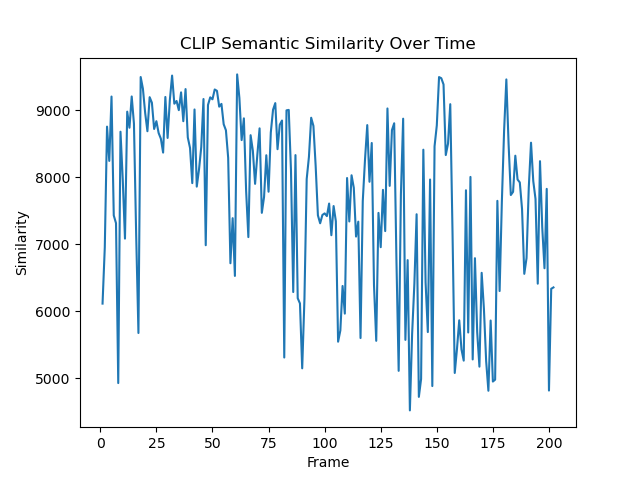
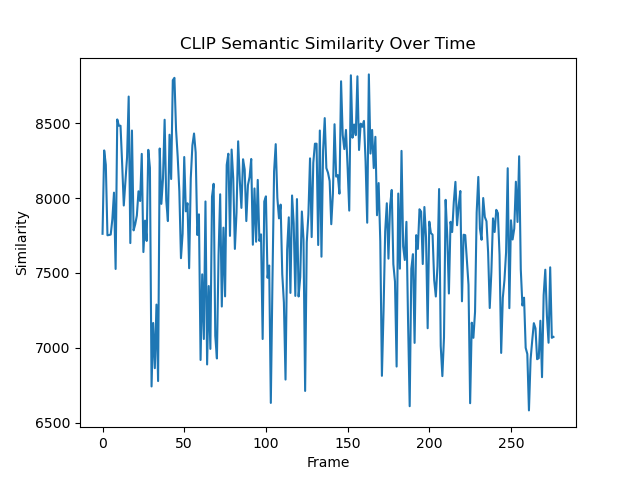
🚀 Initial commit - working FastAPI football AI backend

diff --git a/services/movenet_service.py b/services/movenet_service.py
@@ -2,7 +2,7 @@ import cv2
 import numpy as np
 import tensorflow as tf
 
-# MoveNet body part names (17 keypoints in order)
+# MoveNet 17 body keypoints
 KEYPOINT_NAMES = [
     "nose", "left_eye", "right_eye", "left_ear", "right_ear",
     "left_shoulder", "right_shoulder", "left_elbow", "right_elbow",
@@ -12,6 +12,7 @@ KEYPOINT_NAMES = [
 
 class MoveNetService:
     def __init__(self, model_path):
+        # Load TFLite model and allocate tensors
         self.interpreter = tf.lite.Interpreter(model_path=model_path)
         self.interpreter.allocate_tensors()
         self.input_details = self.interpreter.get_input_details()
@@ -19,6 +20,10 @@ class MoveNetService:
         self.input_type = self.input_details[0]['dtype']
 
     def detect(self, frame):
+        """
+        Detect keypoints from input frame. Returns a dictionary
+        with part names as keys and (x, y, confidence) as values.
+        """
         h, w, _ = frame.shape
         input_shape = self.input_details[0]['shape']
         ih, iw = input_shape[1], input_shape[2]
@@ -35,22 +40,31 @@ class MoveNetService:
         self.interpreter.invoke()
 
         keypoints_with_scores = self.interpreter.get_tensor(self.output_details[0]['index'])[0][0]
-        keypoints = {}
 
+        keypoints = {}
         for i, kp in enumerate(keypoints_with_scores):
             y, x, score = kp
+            # Convert normalized coordinates to absolute pixel positions
             keypoints[KEYPOINT_NAMES[i]] = (int(x * w), int(y * h), score)
 
         return keypoints
 
     def draw_keypoints(self, frame, keypoints, threshold=0.3):
-        for name, (x, y, score) in keypoints.items():
+        """
+        Draws visible keypoints on the frame with optional labels.
+        """
+        for part_name, (x, y, score) in keypoints.items():
             if score > threshold:
                 cv2.circle(frame, (x, y), 4, (0, 255, 0), -1)
-                cv2.putText(frame, name, (x+5, y-5), cv2.FONT_HERSHEY_SIMPLEX, 0.4, (0, 255, 0), 1)
+                cv2.putText(frame, part_name, (x + 5, y - 5),
+                            cv2.FONT_HERSHEY_SIMPLEX, 0.4, (0, 255, 0), 1)
         return frame
 
     def compare_keypoints(self, keypoints1, keypoints2):
+        """
+        Compares two sets of keypoints and returns similarity %
+        based on average distance of matched keypoints.
+        """
         distances = []
         for part in KEYPOINT_NAMES:
             if part in keypoints1 and part in keypoints2:
@@ -63,5 +77,6 @@ class MoveNetService:
         if not distances:
             return 0.0
 
-        max_dim = max(640, 480)
-        return round(100 - (np.mean(distances) / max_dim * 100), 2)
+        max_dim = max(640, 480)  # adjust if needed based on actual resolution
+        similarity = 100 - (np.mean(distances) / max_dim * 100)
+        return round(similarity, 2)

diff --git a/services/clip_service.py b/services/clip_service.py
@@ -9,12 +9,15 @@ class CLIPService:
         self.device = "cuda" if torch.cuda.is_available() else "cpu"
         self.model, self.preprocess = clip.load("ViT-B/32", device=self.device)
 
+        # ✅ Default action prompts — you can expand this list
+        self.labels = ["kick", "dribble", "pass", "run", "stand", "jump"]
+        self.text_tokens = clip.tokenize(self.labels).to(self.device)
+
     def compare_frame_to_prompts(self, frame, prompts):
         """
         Given a video frame and a list of prompts (e.g., ["kick", "run"]),
         returns the most similar label and similarity scores.
         """
-        # Convert BGR (OpenCV) to RGB and PIL format
         frame_rgb = cv2.cvtColor(frame, cv2.COLOR_BGR2RGB)
         image_pil = Image.fromarray(frame_rgb)
 
@@ -33,3 +36,34 @@ class CLIPService:
         best_idx = similarity.argmax().item()
         best_label = prompts[best_idx]
         return best_label, similarity.squeeze().cpu().numpy()
+
+    def compare_frames(self, frame1, frame2):
+        """
+        Compare two video frames semantically using CLIP.
+        Returns predicted label1, label2, and semantic similarity (0-100 scale).
+        """
+        image1 = Image.fromarray(cv2.cvtColor(frame1, cv2.COLOR_BGR2RGB))
+        image2 = Image.fromarray(cv2.cvtColor(frame2, cv2.COLOR_BGR2RGB))
+
+        image1_input = self.preprocess(image1).unsqueeze(0).to(self.device)
+        image2_input = self.preprocess(image2).unsqueeze(0).to(self.device)
+
+        with torch.no_grad():
+            image_features1 = self.model.encode_image(image1_input)
+            image_features2 = self.model.encode_image(image2_input)
+            text_features = self.model.encode_text(self.text_tokens)
+
+            image_features1 /= image_features1.norm(dim=-1, keepdim=True)
+            image_features2 /= image_features2.norm(dim=-1, keepdim=True)
+            text_features /= text_features.norm(dim=-1, keepdim=True)
+
+            # Semantic similarity between images
+            clip_sim = float(torch.nn.functional.cosine_similarity(image_features1, image_features2).item())
+
+            sim1 = (100.0 * image_features1 @ text_features.T).softmax(dim=-1)
+            sim2 = (100.0 * image_features2 @ text_features.T).softmax(dim=-1)
+
+        label1 = self.labels[sim1.argmax().item()]
+        label2 = self.labels[sim2.argmax().item()]
+
+        return label1, label2, round(clip_sim * 100, 2)

diff --git a/drill_evaluator.py b/drill_evaluator.py
@@ -8,8 +8,7 @@ from services.clip_service import CLIPService
 from services.ball_tracker import BallTracker
 from utils.benchmark_logger import BenchmarkLogger
 
-
-# Inside movenet_service.py or wherever the model is loaded:
+# ✅ Initialize services
 movenet = MoveNetService("models/movenet_thunder_int8.tflite")
 clip = CLIPService()
 ball_tracker = BallTracker()
@@ -29,19 +28,19 @@ def process_drill(drill_id, coach_path, student_path):
             break
 
         # ✅ Detect keypoints
-        coach_kps = movenet.detect_keypoints(frame1)
-        student_kps = movenet.detect_keypoints(frame2)
+        coach_kps = movenet.detect(frame1)
+        student_kps = movenet.detect(frame2)
 
         # ✅ Draw keypoints
         frame1 = draw_keypoints(frame1, coach_kps)
         frame2 = draw_keypoints(frame2, student_kps)
 
-        # ✅ Pose similarity (simple Euclidean)
-        pose_sim = np.linalg.norm(np.array(coach_kps) - np.array(student_kps))
+        # ✅ Pose similarity
+        pose_sim = movenet.compare_keypoints(coach_kps, student_kps)
 
-        # ✅ Ball tracking
-        ball1 = ball_tracker.track(frame1)
-        ball2 = ball_tracker.track(frame2)
+        # ✅ Ball tracking (fixed)
+        frame1, ball1 = ball_tracker.track_ball(frame1)
+        frame2, ball2 = ball_tracker.track_ball(frame2)
 
         # ✅ CLIP semantic similarity
         label1, label2, clip_sim = clip.compare_frames(frame1, frame2)
@@ -54,7 +53,7 @@ def process_drill(drill_id, coach_path, student_path):
     cap1.release()
     cap2.release()
 
-    # ✅ Save overlay video
+    # ✅ Save outputs
     logger.save_overlay_video()
     logger.save_to_csv()
     logger.save_summary_charts()

diff --git a/services/video_service.py b/services/video_service.py
@@ -27,13 +27,11 @@ class VideoService:
     def release(self):
         self.cap.release()
 
-
-# ✅ Draw keypoints on a frame
+# ✅ Draw keypoints on frame with labels (expects dict format)
 def draw_keypoints(frame, keypoints, threshold=0.3):
-    h, w, _ = frame.shape
-    for kp in keypoints:
-        y, x, confidence = kp
+    for part_name, (x, y, confidence) in keypoints.items():
         if confidence > threshold:
-            cx, cy = int(x * w), int(y * h)
-            cv2.circle(frame, (cx, cy), 5, (0, 255, 0), -1)
+            cv2.circle(frame, (x, y), 5, (0, 255, 0), -1)
+            cv2.putText(frame, part_name, (x + 5, y - 5),
+                        cv2.FONT_HERSHEY_SIMPLEX, 0.4, (0, 255, 0), 1)
     return frame

diff --git a/services/ball_tracker.py b/services/ball_tracker.py
@@ -1,3 +1,4 @@
+# ball_tracker.py
 import cv2
 import numpy as np
 
@@ -33,7 +34,7 @@ class BallTracker:
                 if draw:
                     cv2.circle(frame, (x, y), r, (0, 255, 255), 2)
                     cv2.putText(frame, "Ball", (x + 10, y), cv2.FONT_HERSHEY_SIMPLEX, 0.6, (255, 255, 255), 2)
-                break  # only use first ball
+                break
 
         if debug:
             cv2.imshow("Ball Detection Debug", blurred)
